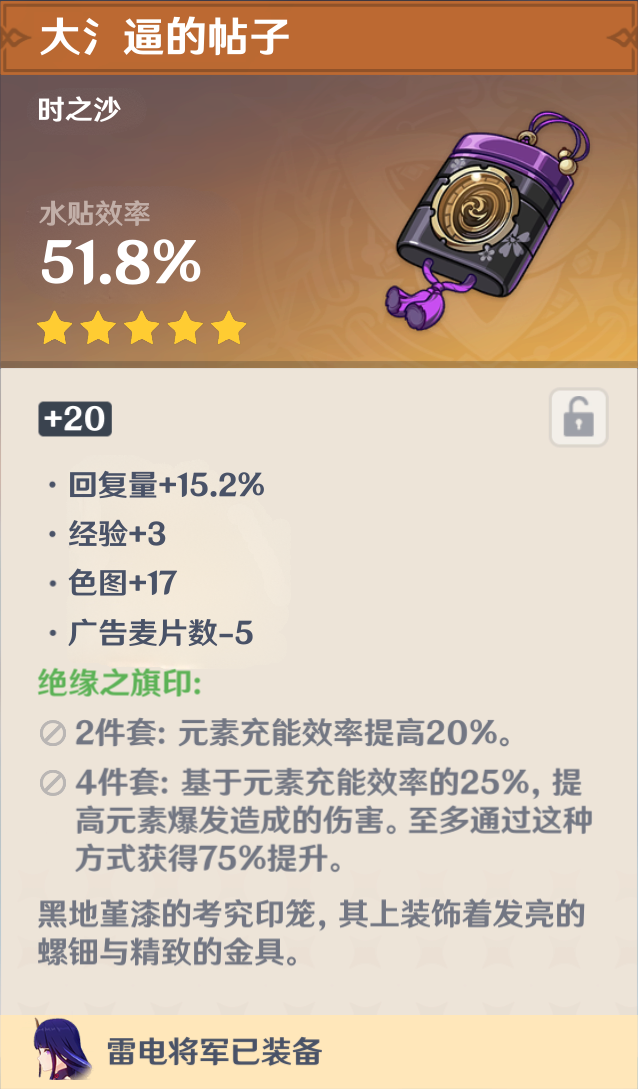
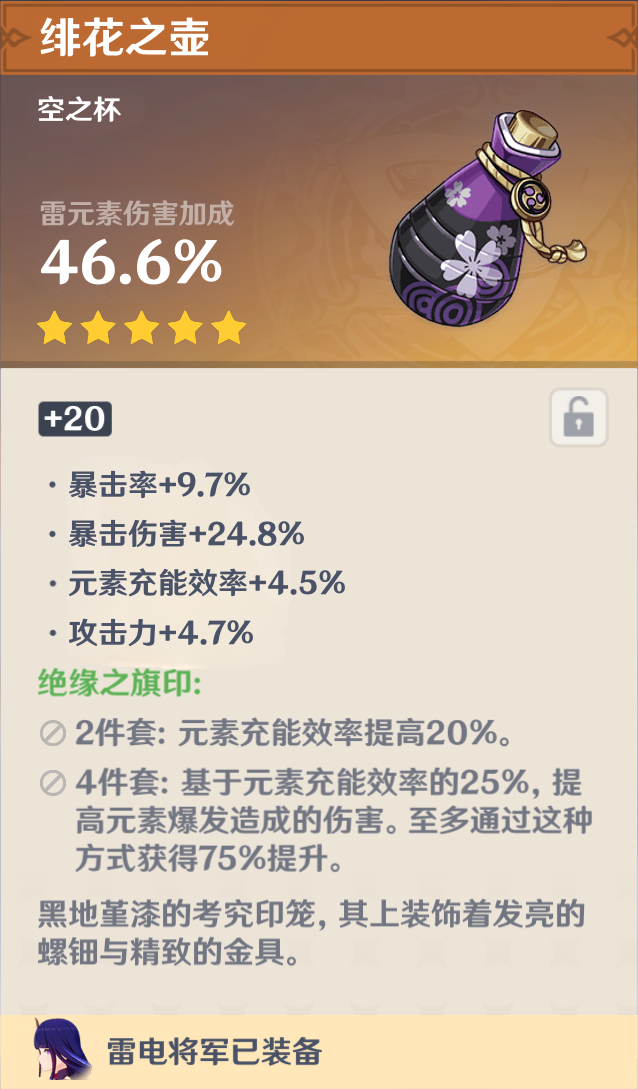
implement image process code and fix REST issue

diff --git a/routes/index.js b/routes/index.js
@@ -3,12 +3,25 @@ let router = express.Router();
 let childProcess = require('child_process')
 
 /* GET home page. */
-router.post('/', async function (req, res, next) {
-    let config = req.body;
-    let process = childProcess.spawn('python', ['./routes/blender.py', 123, 234]);
-    await process.stdout.on('data', function(data) {
-        res.send(data.toString())
-    })
+router.post('/', function (req, res, next) {
+    let config = JSON.stringify(req.body);
+    console.log(config);
+    // let config = req.body
+    // console.log(config, config['mode']);
+    // let [mode, levelP, position, mainProp] = [config.mode, config,level, config.position, config.mainProp]
+    let process = childProcess.spawn('python', ['./routes/blender.py', config]);
+    let imageString = '';
+    process.stdout.on('data', function (data) {
+        // console.log(data.substring(0, 50))
+        imageString += data.toString();
+        // console.log(data.toString());
+
+    });
+    console.log(imageString)
+    process.stdout.on('end', () => {
+        res.send(imageString);
+    });
+    // res.send(imageString);
 });
 
 module.exports = router;

diff --git a/routes/blender.py b/routes/blender.py
@@ -2,22 +2,48 @@ import sys
 import base64
 from PIL import Image, ImageFont, ImageDraw
 from io import BytesIO
+import json
 
-# Takes first name and last name via command
-# line arguments and then display them
-# print("First name: " + sys.argv[1])
-# print("Last name: " + sys.argv[2])
+# to run this file individually, run at the project root folder instead of ./routes
 
+config = json.loads(sys.argv[1])
 
-background = Image.open('./public/images/template_blank.png')
+background = Image.open('./public/images/template_blank1.png').convert('RGBA')
 vice_font = ImageFont.truetype('./public/fonts/zh-cn.ttf', 30)
 main_prop_font = ImageFont.truetype('./public/fonts/zh-cn.ttf', 28)
 main_prop_rate_font = ImageFont.truetype('./public/fonts/zh-cn.ttf', 55)
 title_font = ImageFont.truetype('./public/fonts/zh-cn.ttf', 43)
 
 
-test_text = '中文字体测试，。 ENGLISH english 1234——+-=，。/；‘<>?:"/..'
+title = config['title']
+position = config['position']
+main_prop = config['mainProp']
+main_prop_rate = config['mainPropRate']
+vice_one = config['viceOne']
+vice_two = config['viceTwo']
+vice_three = config['viceThree']
+vice_four = config['viceFour']
 
+
+match position:
+    case '生之花': image_position =  'flower'
+    case '死之羽': image_position = 'feather'
+    case '时之沙': image_position = 'sand'
+    case '空之杯': image_position = 'cup'
+    case '理之冠': image_position = 'head'
+
+temp = './public/images/artifacts/data/绝缘之旗印/' + image_position + '.png'
+
+print(temp)
+
+artifact_img = Image.open('./public/images/artifacts/data/绝缘之旗印/' + image_position + '.png').convert('RGBA')
+
+arti_width, arti_height = artifact_img.size
+artifact_img = artifact_img.resize((int(arti_width*1.15), int(arti_height*1.15)))
+
+
+# title = 'whatever123'
+#
 # position = '时之沙'
 # main_prop = '元素充能效率'
 # main_prop_rate = '51.8%'
@@ -27,44 +53,32 @@ test_text = '中文字体测试，。 ENGLISH english 1234——+-=，。/；‘
 # vice_three = '攻击力+53332.4%'
 # vice_four = '生命值+4113.5%'
 
-title = '大氵逼的帖子'
-position = '时之沙'
-main_prop = '水贴效率'
-main_prop_rate = '114.514%'
-
-vice_one = '回复量+11.4%'
-vice_two = '经验+5'
-vice_three = '色图+14'
-vice_four = '广告麦片数-5'
-
+# title = '大氵逼的帖子'
+# position = '时之沙'
+# main_prop = '水贴效率'
+# main_prop_rate = '114.514%'
+#
+# vice_one = '回复量+11.4%'
+# vice_two = '经验+5'
+# vice_three = '色图+14'
+# vice_four = '广告麦片数-5'
+background.paste(artifact_img, (341, 73), artifact_img)
 image = ImageDraw.Draw(background)
-image.text((39, 13), title, (255, 255, 255), font=title_font)
+
+image.text((39, 12), title, (255, 255, 255), font=title_font)
 image.text((37, 93), position, (255, 255, 255), font=main_prop_font)
 image.text((39, 197), main_prop, (194, 175, 168), font=main_prop_font)
 image.text((39, 230), main_prop_rate, (255, 255, 255), font=main_prop_rate_font)
-
 
 image.text((68, 467), vice_one, (73, 82, 103), font=vice_font)
 image.text((68, 516), vice_two, (73, 82, 103), font=vice_font)
 image.text((68, 565), vice_three, (73, 82, 103), font=vice_font)
 image.text((68, 615), vice_four, (73, 82, 103), font=vice_font)
-# background.save('../output/test_image.png')
+background.save('./output/test_image.png')
 
 buffer = BytesIO()
 background.save(buffer, format='PNG')
 value = base64.b64encode(buffer.getvalue())
 
 print(value)
-
-
-
-
-
-
-
-
-
-
-
-
-
+# sys.stdout.flush()
